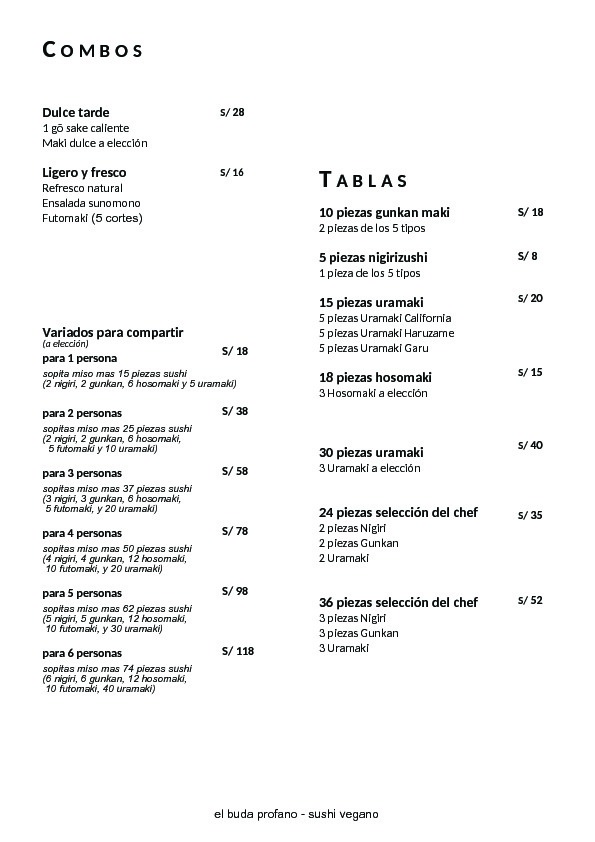
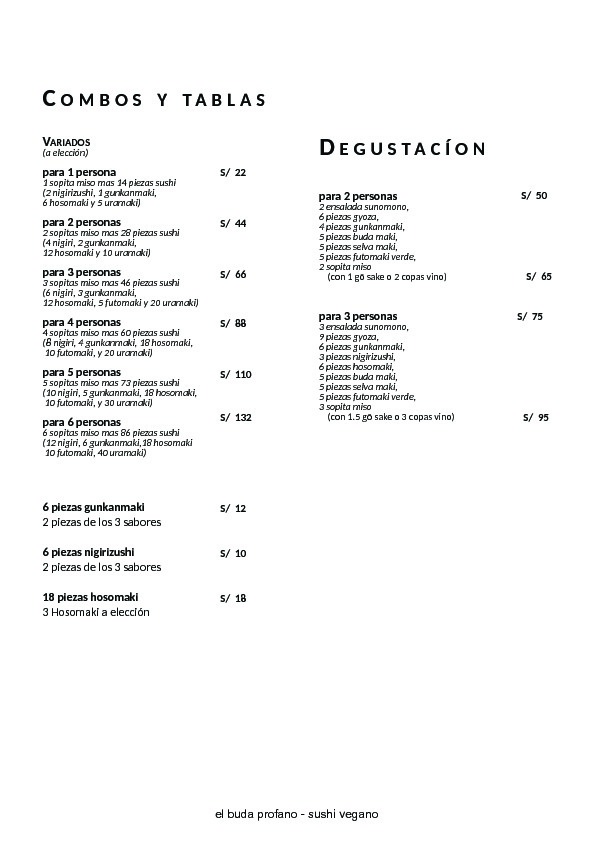
carta 2018 02

diff --git a/index.html b/index.html
@@ -64,17 +64,17 @@
     <div class="row">
   <!-- -->
       <div class="one-third column" style="margin-top: 2%">
-        <p class="u-pull-left">Chef Selection | S/35</p>
-        <p class="u-pull-right">24 piece sushi platter</p>
+        <p class="u-pull-left">Combo for 1 | S/22</p>
+        <p class="u-pull-right">14 piece sushi platter with miso</p>
       </div>
   <!-- -->
       <div class="one-third column" style="margin-top: 2%">
-        <p class="u-pull-left">Tasting menu for 2 | S/40</p>
-        <p class="u-pull-right">sunomono salad, gyoza, 15 pieces makizushi, miso</p>
+        <p class="u-pull-left">Tasting menu for 2 | S/50</p>
+        <p class="u-pull-right">sunomono salad, gyoza, 19 pieces makizushi, miso</p>
       </div>
   <!-- -->
       <div class="one-third column" style="margin-top: 2%">
-        <p class="u-pull-left">5 piece gunkanmaki | S/10</p>
+        <p class="u-pull-left">6 piece gunkanmaki | S/12</p>
         <p class="u-pull-right">our fine selection of gunkanmaki</p>
       </div>
     </div>
@@ -83,18 +83,18 @@
     <div class="row">
   <!-- -->
       <div class="one-third column" style="margin-top: 2%">
-        <p class="u-pull-left">Sweet afternoon | S/28</p>
-        <p class="u-pull-right">Saké and your choice of our desert makis</p>
+        <p class="u-pull-left">Sweet afternoon | S/20</p>
+        <p class="u-pull-right">Saké and mochi to share</p>
       </div>
   <!-- -->
       <div class="one-third column" style="margin-top: 2%">
-        <p class="u-pull-left">Wine by the bottle | S/50</p>
+        <p class="u-pull-left">Wine by the bottle | S/60</p>
         <p class="u-pull-right">White, red or sparkling</p>
       </div>
   <!-- -->
       <div class="one-third column" style="margin-top: 2%">
-        <p class="u-pull-left">Ramen and beer | S/14</p>
-        <p class="u-pull-right">Ramen soup paired with a cold Pilsen</p>
+        <p class="u-pull-left">cebiche and beer | S/15</p>
+        <p class="u-pull-right">highland cebiche paired with a cold Pilsen</p>
       </div>
     </div>
 
@@ -165,7 +165,7 @@
       <div class="one-third column" style="margin-top: 2%">
         <p class="u-pull-left">Hiring   </p>
         <p class="u-pull-right"> 
-								<br><br> itamae, team lead </p>
+								<br><br> itamae, chef </p>
       </div>
   <!-- -->
       <div class="one-third column" style="margin-top: 2%">
@@ -185,7 +185,7 @@
     <div class="row">
   <!-- -->
       <div class="one-third column" style="margin-top: 2%">
-        <p class="u-pull-left">Ana  </p>
+        <p class="u-pull-left">Jaime  </p>
         <p class="u-pull-right"> 
 								<br><br> kitchen </p>
       </div>
